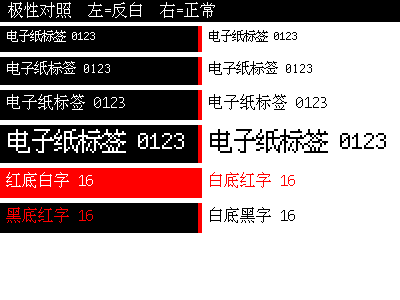
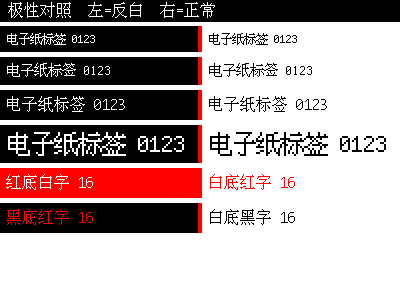
Default markup text to middle alignment

diff --git a/examples/layout_showcase/page.html b/examples/layout_showcase/page.html
@@ -1,6 +1,6 @@
 <!--
-  One page for the layout nodes: a grid, an anchored badge, two transforms, and
-  a note cut off where its cell ends.
+  One page for the layout nodes: a grid, an anchored badge, a relative offset
+  inside a transform, and a note cut off where its cell ends.
 
   Every number here that could be a sum is a sum. The three bars start at the
   same x because one automatic column measures the three labels, not because
@@ -99,11 +99,15 @@ header .when { margin-left: auto; text-align: right; }
 /* Twice the strike, which on a panel with no greys is a copy rather than a
    resampling: whole-number scaling moves pixels onto pixels. The scale is on
    the figure and not on the badge, because scaling the badge would scale the
-   circle with it. */
+   circle with it. Relative positioning keeps the figure in its flow slot
+   while nudging the transformed figure inside the clipped badge. */
 .badge b {
   display: block;
   width: 42px;
   height: 42px;
+  position: relative;
+  top: 2px;
+  left: 4px;
   scale: 2;
   text-align: center;
   vertical-align: middle;

diff --git a/examples/claude_status/page.html b/examples/claude_status/page.html
@@ -1,6 +1,7 @@
 <!--
   A usage meter for the tag on the desk: how long until the window resets, and
-  how much of it has gone.
+  how much of it has gone. The plan label also demonstrates a relative nudge
+  without changing the header's flex allocation.
 
   Two bars, both drawn rather than laid out. A bar is a length that means a
   number, so it is geometry: the fill is 62% of the track because 62 is the
@@ -21,7 +22,14 @@
 header, footer { flex-basis: 44px; background: black; color: white; }
 header { display: flex; align-items: center; padding: 0 14px; vertical-align: middle; }
 header b { font-size: 24px; }
-header .plan { margin-left: auto; font-family: monaco; font-size: 16px; }
+header .plan {
+  margin-left: auto;
+  position: relative;
+  top: 2px;
+  left: -3px;
+  font-family: monaco;
+  font-size: 16px;
+}
 
 main {
   flex-grow: 1;

diff --git a/examples/card_showcase/page.html b/examples/card_showcase/page.html
@@ -65,7 +65,16 @@ header .panel { flex-basis: 70px; margin-left: 2px; text-align: right; color: re
 .field .pct { flex-grow: 1; height: 14px; font-size: 12px; color: red; text-align: right; }
 
 .link { flex-basis: 15px; margin-top: 3px; position: relative; }
-.link span { position: absolute; top: 2px; left: 26px; width: 132px; height: 12px; text-align: center; }
+/* Anchor only the outer label; the nested .cjk must remain an inline run. */
+.link > span {
+  position: absolute;
+  top: 2px;
+  left: 26px;
+  width: 132px;
+  height: 12px;
+  line-height: 12px;
+  text-align: center;
+}
 .link .cjk { color: red; }
 </style>
 

diff --git a/examples/schema_quickstart/page.html b/examples/schema_quickstart/page.html
@@ -36,6 +36,8 @@ header .temp { font-family: ui; font-size: 14px; color: red; }
   font-family: ui;
   font-size: 14px;
   line-height: 16px;
+  /* This paragraph is intentionally anchored at the top of its tall box. */
+  vertical-align: top;
 }
 </style>
 

diff --git a/internal/markup/regression_test.go b/internal/markup/regression_test.go
@@ -78,6 +78,30 @@ func TestNestedAbsolutePositionUsesTheNearestPositionedAncestor(t *testing.T) {
 	expect(t, got, display.InkRed, image.Rect(7, 5, 17, 15), "the pin anchored to frame rather than wrapper")
 }
 
+func TestTextDefaultsToMiddleAlignment(t *testing.T) {
+	document, err := Compile(`<div class="page"><span class="label">x</span></div>`,
+		`.page { display: flex; width: 40px; height: 20px; }
+		 .label { display: block; flex-grow: 1; }`)
+	if err != nil {
+		t.Fatal(err)
+	}
+	flat := strings.Join(strings.Fields(string(document.JSON)), "")
+	if !strings.Contains(flat, `"verticalAlign":"middle"`) {
+		t.Fatalf("default text alignment was not emitted as middle:\n%s", document.JSON)
+	}
+
+	top, err := Compile(`<div class="page"><span class="label">x</span></div>`,
+		`.page { display: flex; width: 40px; height: 20px; }
+		 .label { display: block; flex-grow: 1; vertical-align: top; }`)
+	if err != nil {
+		t.Fatal(err)
+	}
+	topFlat := strings.Join(strings.Fields(string(top.JSON)), "")
+	if strings.Contains(topFlat, `"verticalAlign":"middle"`) {
+		t.Fatalf("explicit top alignment was replaced by middle:\n%s", top.JSON)
+	}
+}
+
 func TestFlexGapUsesTheGapForTheActiveAxis(t *testing.T) {
 	row := boxes(t, `<i class="a"></i><i class="b"></i>`,
 		`.a { display: block; width: 20px; background: black; }

diff --git a/internal/markup/style.go b/internal/markup/style.go
@@ -177,6 +177,10 @@ func rootStyle() style {
 		color:      display.InkBlack,
 		fontFamily: display.DefaultFontFamily,
 		fontSize:   display.DefaultFontSize,
+		// Bitmap text has no browser baseline to align against. Middle is the
+		// useful box-model default for a fixed panel and keeps flex/grid labels
+		// visually centred without requiring an inkwire-specific declaration.
+		textVAlign: display.AlignMiddle,
 		// CSS wraps by default. Not wrapping is what white-space: nowrap is
 		// for, and a page that silently refused to wrap would lose text with
 		// nothing but a clipping warning to show for it.
@@ -1309,7 +1313,7 @@ func (s *style) reset(property string, report func(string)) {
 	case "text-align":
 		s.textAlign = display.AlignStart
 	case "vertical-align":
-		s.textVAlign = display.AlignTop
+		s.textVAlign = display.AlignMiddle
 	case "white-space":
 		// CSS wraps by default, and WrapRunes is not the zero value, so this
 		// is one of the few that cannot be taken from a fresh style.

diff --git a/internal/markup/compile.go b/internal/markup/compile.go
@@ -651,12 +651,8 @@ func (c *compiler) children(node *html.Node, current style, path string, contain
 	// path is not even attempted for one.
 	if current.display != displayFlex {
 		if runs := c.textRuns(node, current, path); len(runs) > 0 {
-			// Text sits at the top of its box, as it does in CSS. Centring it
-			// vertically is the container's job, through align-items, not a
-			// property of the text itself.
-			// Text sits at the top of its box unless vertical-align says
-			// otherwise, which is what CSS does everywhere except a table
-			// cell, and a fixed-height row here is the same situation.
+			// Text is centred in its box by default. Explicit vertical-align
+			// values still opt into top or bottom when a label needs an edge.
 			return &emitted{Type: "text", Runs: runs,
 				Align:         horizontalAlignName(current.textAlign),
 				VerticalAlign: verticalAlignName(current.textVAlign),

diff --git a/internal/markup/doc.go b/internal/markup/doc.go
@@ -97,5 +97,6 @@
 // vertical-align is the one property used slightly outside its CSS meaning.
 // There it applies to inline boxes and table cells; here it says where text
 // sits inside a box taller than itself, which is the table-cell case and the
-// property an author reaches for. Text sits at the top without it, as in CSS.
+// property an author reaches for. Text is centred by default on a fixed panel;
+// top and bottom remain available when an edge alignment is intentional.
 package markup

diff --git a/README.md b/README.md
@@ -639,6 +639,11 @@ text once the ones a panel has no use for are taken out.
 `vertical-align` inherit; everything else does not, which matches CSS.
 `inherit`, `initial`, `unset` and `revert` work on any of them.
 
+Markup text defaults to `vertical-align: middle`, which keeps labels centred in
+fixed-size boxes the way a panel UI normally expects. Use `top` or `bottom` when
+an edge is intentional; the explicit value is preserved through the scene
+document the page compiles to.
+
 Lengths are pixels, percentages, and `calc` between the two — a size, a
 position and a flex basis all take a share of the box.
 
